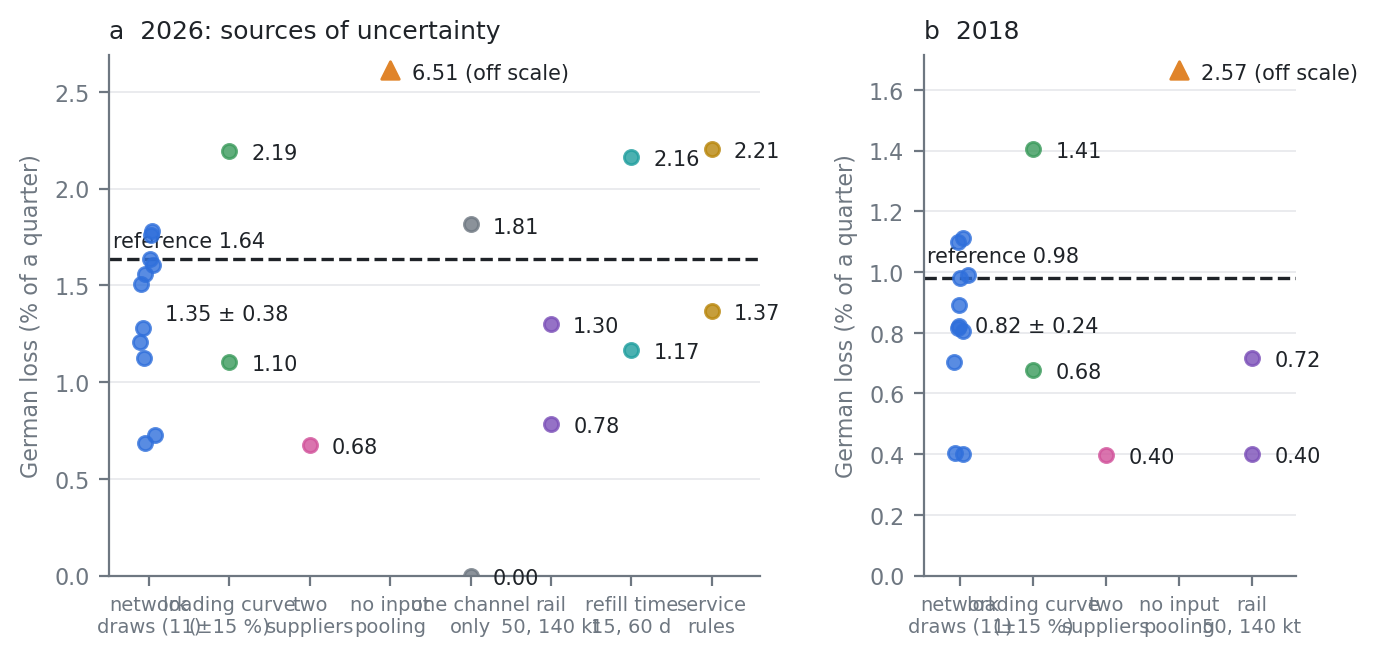
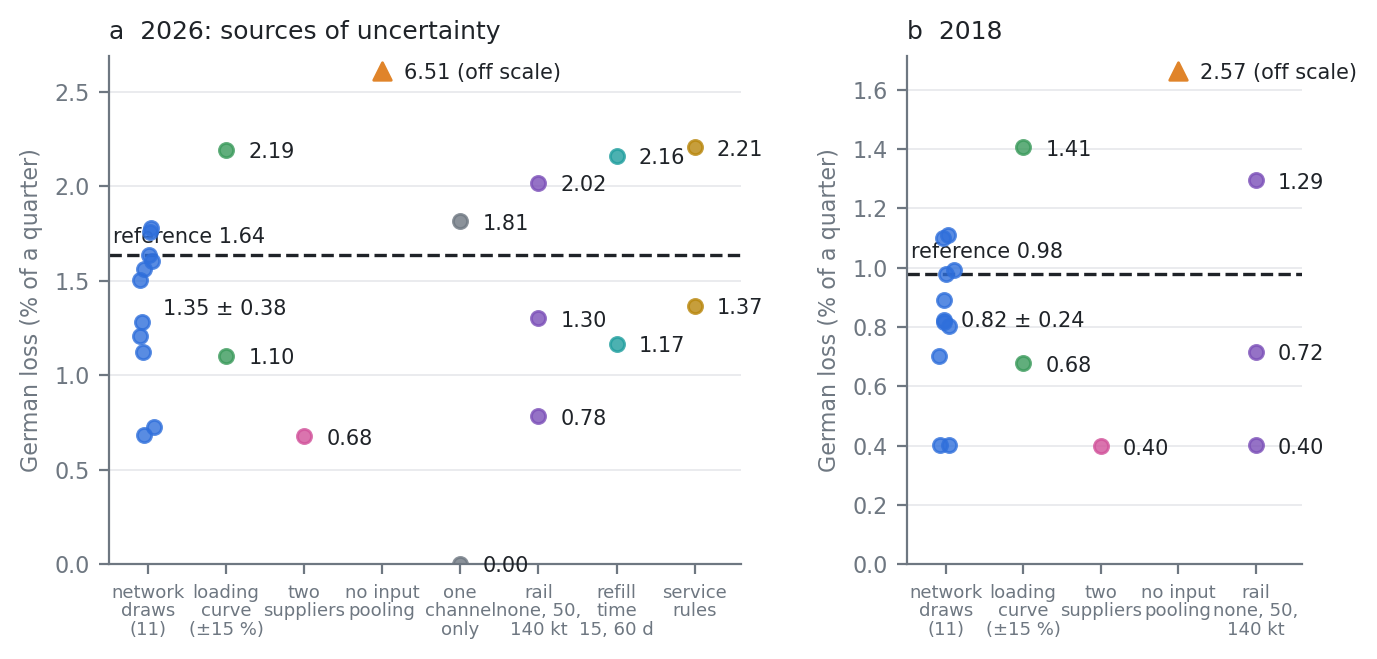
Rhine: no-rail runs read (2026 2.02 % of a quarter, +23 %; 2018 1.29 %, +32 %): compare table, F8 with the rail group none/50/140 kt and legible labels, the manuscript changes held in review/pending_patch_norail_20261021.py (Overleaf untouched at the user's request), response record

diff --git a/studies/rhine2026/review/pending_patch_norail_20261021.py b/studies/rhine2026/review/pending_patch_norail_20261021.py
@@ -1,0 +1,49 @@
+"""DEFERRED Overleaf patch (21 Oct 2026): the no-rail runs written into the manuscript.
+
+The user asked on the evening of 20 Oct not to update the Overleaf copy while they revise it. Apply when they allow:
+
+    git -C <overleaf> fetch && git -C <overleaf> pull --rebase origin main      # their edits first
+    python studies/rhine2026/review/pending_patch_norail_20261021.py            # this file (asserts every anchor)
+    python studies/rhine2026/make_numbers.py                                    # RevNoRail* macros into numbers.tex
+    python studies/rhine2026/si_tables.py                                       # the two no-rail rows of Table S-revision
+    cp studies/rhine2026/figures/F8_sensitivity.{pdf,png} <overleaf>/figures/   # the rail group: none, 50, 140 kt
+    then lint, commit, fetch/rebase, push.
+
+If an anchor fails, the user's revision changed that sentence: re-read it and carry the same content by hand.
+Numbers (compare_runs_batch_jobs_20261020_norail.csv): 2026 no-rail 2.02 % of a quarter (+23 % on 1.64), peak 3.01 %/week in
+week 17 (unchanged), EU 21.7 bn; 2018 1.29 % (+32 % on 0.98), peak week 21, EU 14.2 bn.
+"""
+from pathlib import Path
+
+O = Path("C:/Users/Celian/OneDrive/DisruptSC/Paper_Rhine2026/git-overleaf/6aaa98617957ab816097822f")
+
+
+def patch(path: Path, pairs):
+    s = path.read_text(encoding="utf-8"); nl = "\r\n" if "\r\n" in s else "\n"; s = s.replace("\r\n", "\n")
+    for old, new in pairs:
+        n = s.count(old); assert n == 1, f"{path.name}: {n} occurrences of {old[:90]!r}"
+        s = s.replace(old, new)
+    path.write_text(s.replace("\n", nl), encoding="utf-8"); print(f"{path.name}: {len(pairs)} replacements")
+
+
+patch(O / "main.tex", [
+    # Results, the capacity section: the placeholder todo
+    ("Combined rail--barge transport of bulk exists at the Rhine ports, but we have no data on its share of the Kaub traffic, so this is an assumption of the routing; a pair of runs in which no bulk may use rail at all bounds its effect \\todo{no-rail runs pending: jobs\\_20261020\\_norail.txt}.",
+     "Combined rail--barge transport of bulk exists at the Rhine ports, but we have no data on its share of the Kaub traffic, so this is an assumption of the routing, and a pair of runs in which no bulk may use rail at all bounds its weight: without it the 2026 loss is \\finalbatch{\\RevNoRail}\\,\\% of a quarter, \\finalbatch{\\RevNoRailAbs}\\,\\% more, and the 2018 loss \\RevNoRailyy\\,\\%, \\RevNoRailyyAbs\\,\\% more (Supplementary Table~\\ref{tab:revision})."),
+    # Results, the uncertainty paragraph
+    ("and the rules on substitution by rail, on the refill time of inventories and on the service inputs by as much (Fig.~\\ref{fig:sensitivity}; Supplementary Sections~S4 and S7).",
+     "and the rules on substitution by rail (none for any bulk shipment, or a weekly ceiling for all of them), on the refill time of inventories and on the service inputs by as much (Fig.~\\ref{fig:sensitivity}; Supplementary Sections~S4, S7 and S8)."),
+    # the caption of the uncertainty figure
+    ("substitution by rail at 50 and 140 kt a week, the refill time",
+     "substitution by rail (none for any bulk shipment; a ceiling of 50 and 140 kt a week for all of them), the refill time"),
+    # Discussion, the limitations paragraph
+    ("bulk may not switch, except for the shipments that already use rail for a main leg of their journey, an assumption without data behind it; and a weekly ceiling on rail for all bulk, tested as a sensitivity, removes a fifth to a half of the loss.",
+     "bulk may not switch, except for the shipments that already use rail for a main leg of their journey, an assumption without data behind it that is worth a quarter of the loss (without it the 2026 loss is \\finalbatch{\\RevNoRailAbs}\\,\\% higher and the 2018 loss \\RevNoRailyyAbs\\,\\%); and a weekly ceiling on rail for all bulk, tested as a sensitivity, removes a fifth to a half of the loss."),
+])
+
+patch(O / "sections" / "si.tex", [
+    # S8 Rail: the exception in the rule and the no-rail pair
+    ("and bulk cannot switch at all, the representation of the fact that tank barges and ore trains have no road or rail equivalent at volume in the time of an event.",
+     "and bulk cannot switch, the representation of the fact that tank barges and ore trains have no road or rail equivalent at volume in the time of an event, except for the shipments whose normal route already carries a main leg by rail (100\\,km or more), which may go around a stretch by rail at no penalty: 15\\,\\% of the bulk orders that cross Kaub have such a route, and the surcharge moves them off the river before the capacity limit cuts them. We have no data on the share of the Kaub traffic that travels combined rail--barge, so a pair of runs raises the main-leg threshold to 500\\,km, which leaves no bulk shipment a rail alternative: the 2026 loss rises from \\DEUlossQ{} to \\RevNoRail\\,\\% of a quarter (\\RevNoRailAbs\\,\\% more) and the 2018 loss from \\DEUlossQyy{} to \\RevNoRailyy\\,\\% (\\RevNoRailyyAbs\\,\\% more), with the same peak weeks (Table~\\ref{tab:revision})."),
+])
+print("deferred no-rail patch applied; now make_numbers, si_tables, copy F8, lint, commit, push")

diff --git a/studies/rhine2026/plots/sensitivity_figure.py b/studies/rhine2026/plots/sensitivity_figure.py
@@ -55,8 +55,11 @@ def main(out: Path):
     p = table(AD / "compare_runs_batch_jobs_20261007_paired.csv")
     rv = AD / "compare_runs_batch_jobs_20261007_rev.csv"
     r = table(rv) if rv.exists() else pd.DataFrame()
+    nr = AD / "compare_runs_batch_jobs_20261020_norail.csv"  # no rail alternative for any bulk (20 Oct 2026)
+    if nr.exists():
+        r = pd.concat([r, table(nr)])
     q = "DEU_%quarter"
-    fig, axes = plt.subplots(1, 2, figsize=(7.0, 3.4), gridspec_kw={"width_ratios": [1.75, 1]})
+    fig, axes = plt.subplots(1, 2, figsize=(7.0, 3.4), gridspec_kw={"width_ratios": [1.6, 1.0]})
     fig.patch.set_facecolor("white")
     rng = np.random.default_rng(2)
     for ax, year in zip(axes, ("2026", "2018")):
@@ -64,16 +67,20 @@ def main(out: Path):
         base = m.loc[f"{year}_s07_base", q]
         draws = ([p.loc[f"2026_s07_seed{s}_base", q] for s in range(1, 11)] if year == "2026"
                  else [m.loc[f"2018_s07_seed{s}", q] for s in range(1, 11)])
-        groups = [("network\ndraws (11)", draws + [base], BLUE),
-                  ("loading curve\n(±15 %)", [m.loc[f"{year}_s07_tablelow", q], m.loc[f"{year}_s07_tablehigh", q]], GREEN),
+        groups = [("network\ndraws\n(11)", draws + [base], BLUE),
+                  ("loading\ncurve\n(±15 %)", [m.loc[f"{year}_s07_tablelow", q], m.loc[f"{year}_s07_tablehigh", q]], GREEN),
                   ("two\nsuppliers", [m.loc[f"{year}_s07_sup2", q]], PINK),
                   ("no input\npooling", [m.loc[f"{year}_s07_nopool", q]], ORANGE)]
         if year == "2026":
-            groups.append(("one channel\nonly", [m.loc["2026_s07_gateonly", q], m.loc["2026_s07_surchargeonly", q]], MUTED))
+            groups.append(("one\nchannel\nonly", [m.loc["2026_s07_gateonly", q], m.loc["2026_s07_surchargeonly", q]], MUTED))
         if len(r) and f"{year}_rev_rail50" in r.index:
-            groups.append(("rail\n50, 140 kt", [r.loc[f"{year}_rev_rail50", q], r.loc[f"{year}_rev_rail140", q]], PURPLE))
+            rail = [r.loc[f"{year}_rev_rail50", q], r.loc[f"{year}_rev_rail140", q]]
+            if f"{year}_rev_norail" in r.index:
+                groups.append(("rail\nnone, 50,\n140 kt", [r.loc[f"{year}_rev_norail", q]] + rail, PURPLE))
+            else:
+                groups.append(("rail\n50, 140 kt", rail, PURPLE))
         if year == "2026" and len(r) and "2026_rev_rest15" in r.index:
-            groups.append(("refill time\n15, 60 d", [r.loc["2026_rev_rest15", q], r.loc["2026_rev_rest60", q]], TEAL))
+            groups.append(("refill\ntime\n15, 60 d", [r.loc["2026_rev_rest15", q], r.loc["2026_rev_rest60", q]], TEAL))
             groups.append(("service\nrules", [r.loc["2026_rev_serv45", q], r.loc["2026_rev_dfuel0", q]], GOLD))
         ax.axhline(base, color=INK, linewidth=1.2, linestyle="--")
         ax.text(-0.45, base + 0.04, f"reference {base:.2f}", color=INK, fontsize=7.5, ha="left", va="bottom")
@@ -83,14 +90,15 @@ def main(out: Path):
                 ax.scatter([x], [top * 0.97], color=col, marker="^", s=40, zorder=3)
                 ax.annotate(f"{max(vals):.2f} (off scale)", (x, top * 0.97), textcoords="offset points", xytext=(8, -3), fontsize=7.5, color=INK)
                 continue
-            jitter = rng.uniform(-0.12, 0.12, len(vals)) if len(vals) > 2 else np.zeros(len(vals))
+            network = lab.startswith("network")
+            jitter = rng.uniform(-0.12, 0.12, len(vals)) if network else np.zeros(len(vals))
             ax.scatter(x + jitter, vals, color=col, s=26, alpha=0.8, zorder=3)
-            if len(vals) <= 2:
+            if not network:
                 for v in vals:
                     ax.annotate(f"{v:.2f}", (x, v), textcoords="offset points", xytext=(8, -3), fontsize=7.5, color=INK)
             else:
                 ax.text(x + 0.2, float(np.mean(vals)), f"{np.mean(vals):.2f} ± {np.std(vals, ddof=1):.2f}", fontsize=7.5, color=INK, va="center")
-        ax.set_xticks(range(len(groups))); ax.set_xticklabels([g[0] for g in groups], fontsize=7)
+        ax.set_xticks(range(len(groups))); ax.set_xticklabels([g[0] for g in groups], fontsize=6.5, linespacing=1.05)
         ax.set_xlim(-0.5, len(groups) - 0.4)
         ax.set_ylim(0, top)
         ax.set_ylabel("German loss (% of a quarter)", color=MUTED, fontsize=8)

diff --git a/studies/rhine2026/review/review_20261008_response.md b/studies/rhine2026/review/review_20261008_response.md
@@ -139,3 +139,19 @@ Corridor firms (new macros, base run 2026_s07_base): in week 7 (3-9 August, the 
 Code: run_rhine.py takes --line-haul-km and --access-km; make_numbers writes SurchargeBillBn (1.1), SurchargeBillDEUBn (1.0), the Corridor* macros, Abs variants of the 2018 rail macros and the RevNoRail* macros when compare_runs_batch_jobs_20261020_norail.csv exists; si_tables says benchmark and inventory and lists the no-rail rows when their table exists; figures F9 (benchmark, inventory multiplier, legend of panel b moved off the data), F10 (episodes), F4c and F7 (inventories) regenerated. Lint clean (macros, labels, citations, braces). Word counts: abstract 192, introduction 1090, Results 4071, Discussion 1778.
 
 Pending: the no-rail runs; then the compare table fills RevNoRail* and the revision table, and the placeholder todo in the capacity section and the limitation sentence of the Discussion are replaced by the result.
+
+
+## 21 October: the no-rail runs (jobs_20261020_norail.txt)
+
+Both runs used the 500 km main-leg threshold (parameters.yaml: switching_costs.line_haul_km 500.0; the fingerprint records it), so no bulk shipment has a rail alternative around Kaub. Table: additional_data/compare_runs_batch_jobs_20261020_norail.csv (cluster compare_runs, country-sector value-added ratios).
+
+| Run | German loss, % of a quarter | against the base | peak, % of a week (week) | EU loss, bn USD | bulk rerouted over the run, bn USD | bulk blocked, bn USD |
+|---|---:|---:|---:|---:|---:|---:|
+| 2026 base | 1.64 | - | 2.82 (17) | 17.9 | 21.8 | 16.8 |
+| 2026 no rail | 2.02 | +23 % | 3.01 (17) | 21.7 | 18.0 | 19.4 |
+| 2018 base | 0.98 | - | 1.16 (21) | 11.0 | 19.3 | 11.1 |
+| 2018 no rail | 1.29 | +32 % | 1.54 (21) | 14.2 | 17.2 | 13.2 |
+
+Reading: the rail bypass that the rule grants to bulk with a rail main leg is worth about a quarter of the 2026 loss and a third of the 2018 loss; the peak weeks do not move. The rerouted bulk that remains in the no-rail runs (18 bn USD) is same-mode rerouting on the surcharged Lower Rhine and elsewhere, not a Kaub bypass; the Kaub bypass is the difference between the two runs (about 4 bn USD of bulk over the 2026 season, a tenth of what the river turns away).
+
+Where it goes: the capacity section of Results (replaces the placeholder todo), the uncertainty paragraph and the caption of the uncertainty figure (the rail group now shows none / 50 / 140 kt), the limitations paragraph of the Discussion, SI S8 (the exception in the rule stated, the pair of runs reported), Table S-revision (two rows, generated). The user asked on the evening of 20 Oct not to update the Overleaf copy, so the text changes are held in review/pending_patch_norail_20261021.py; numbers.tex and the tables were generated into a staging folder only, F8 regenerated in the study folder only. Macros ready: RevNoRail 2.02, RevNoRailAbs 23, RevNoRailyy 1.29, RevNoRailyyAbs 32.
